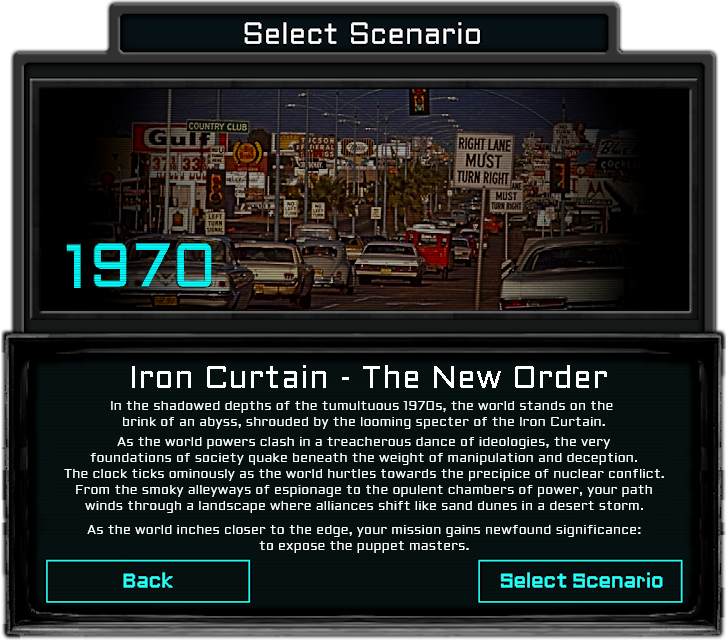
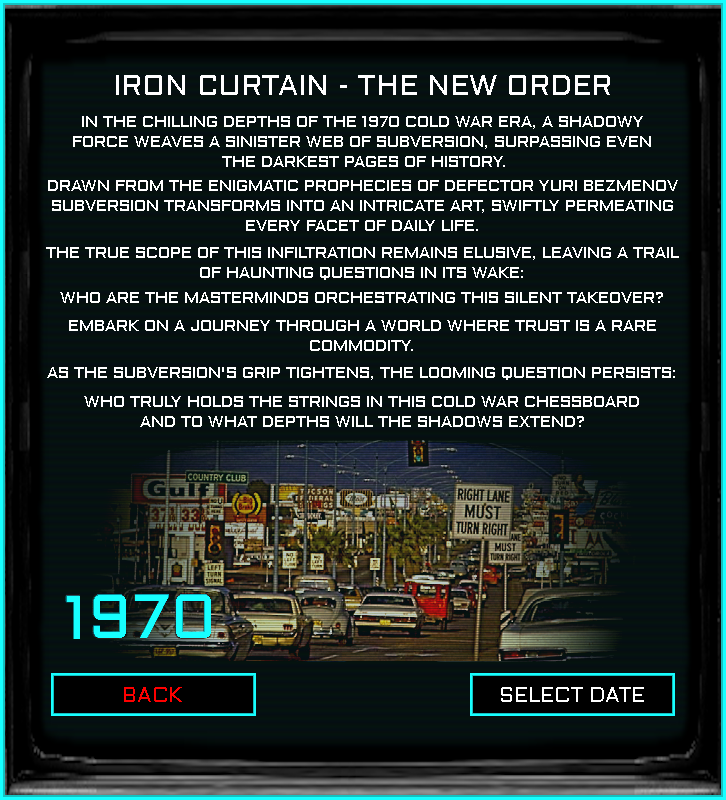
v0.05 	modified:   MenuManager.py 	modified:   __pycache__/MenuManager.cpython-311.pyc 	modified:   gfx/Interface/country_selection/country_selection_background.png 	modified:   gfx/Interface/country_selection/national_spirits_background.png 	modified:   gfx/Interface/main_menu.png 	modified:   gfx/

diff --git a/MenuManager.py b/MenuManager.py
@@ -288,8 +288,8 @@ class Main_Menu:
 		menu_gui_width = self.menu_gui.get_width()
 		menu_gui_height = self.menu_gui.get_height()
 		
-		self.menu_gui_middle_x = (screen_width - menu_gui_width*1.5)
-		self.menu_gui_middle_y = (screen_height - menu_gui_height) / 1.2	
+		self.menu_gui_middle_x = (screen_width/1.35 - menu_gui_width/2)
+		self.menu_gui_middle_y = (screen_height/1.35 - menu_gui_height/2)	
 
 		
 		start_button_width = 371 * self.factor_x
@@ -455,16 +455,16 @@ class Scenario_Selection_Menu:
 		self.menu_gui_middle_x = (screen_width/2 - menu_gui_width/2)
 		self.menu_gui_middle_y = (screen_height - menu_gui_height) / 1.3
 
-		start_button_width = 204 * self.factor_x
+		start_button_width = 205 * self.factor_x
 		start_button_height = 43 * self.factor_y
-		start_button_x_offset = 478 * self.factor_x
-		start_button_y_offset = 560 * self.factor_y
+		start_button_x_offset = 470 * self.factor_x
+		start_button_y_offset = 673 * self.factor_y
 		self.start_button = GenericUtilitys.Button(self.menu_gui_middle_x + start_button_x_offset, self.menu_gui_middle_y + start_button_y_offset, start_button_width, start_button_height)	
 
-		back_button_width = 204 * self.factor_x
+		back_button_width = 205 * self.factor_x
 		back_button_height = 43 * self.factor_y
-		back_button_x_offset = 46 * self.factor_x
-		back_button_y_offset = 560 * self.factor_y
+		back_button_x_offset = 51 * self.factor_x
+		back_button_y_offset = 673 * self.factor_y
 		self.back_button = GenericUtilitys.Button(self.menu_gui_middle_x + back_button_x_offset, self.menu_gui_middle_y + back_button_y_offset, back_button_width, back_button_height)	
 
 		self.hovered = False
@@ -588,29 +588,31 @@ class Country_Selection_Menu:
 		political_compass_image_rect[1] += 31 * self.factor_y
 		self.Country_Selection_National_Spirits_Selection_Menu.background_position = [political_compass_image_rect[0]*0.65, political_compass_image_rect[1]*0.95]
 
-		self.leader_portrait_position = (1057 * self.factor_x, 55 * self.factor_y)
-		self.country_flag_position = (1211 * self.factor_x, 129 * self.factor_y)
+		self.leader_portrait_position = (1053 * self.factor_x, 25 * self.factor_y)
+		self.country_flag_position = (1209 * self.factor_x, 89 * self.factor_y)
 
-		self.country_name_position = (1218 * self.factor_x, 78 * self.factor_y)
-		self.leader_name_position = (1074 * self.factor_x, 257 * self.factor_y)
+		self.country_name_position = (1212 * self.factor_x, 41 * self.factor_y)
+		self.leader_name_position = (1071 * self.factor_x, 222 * self.factor_y)
+
+		self.national_spirits_position = [1437*self.factor_x, 104*self.factor_y]
 
 		#### MAIN BUTTONS
 		start_game_button_width = 268 * self.factor_x
 		start_game_button_height = 70 * self.factor_y
-		self.start_game_button_x_offset = 1643 * self.factor_x
-		self.start_game_button_y_offset = 278 * self.factor_y		
+		self.start_game_button_x_offset = 1639 * self.factor_x
+		self.start_game_button_y_offset = 248 * self.factor_y		
 		self.start_game_button = GenericUtilitys.Button(self.start_game_button_x_offset, self.start_game_button_y_offset, start_game_button_width, start_game_button_height)	
 
 		select_national_spirit_button_width = 211 * self.factor_x
 		select_national_spirit_button_height = 70 * self.factor_y
-		self.select_national_spirit_button_x_offset = 1428 * self.factor_x
-		self.select_national_spirit_button_y_offset = 278 * self.factor_y		
+		self.select_national_spirit_button_x_offset = 1424 * self.factor_x
+		self.select_national_spirit_button_y_offset = 248 * self.factor_y		
 		self.select_national_spirit_button = GenericUtilitys.Button(self.select_national_spirit_button_x_offset, self.select_national_spirit_button_y_offset, select_national_spirit_button_width, select_national_spirit_button_height)	
 
 		select_flag_style_button_width = 362 * self.factor_x
 		select_flag_style_button_height = 70 * self.factor_y
-		self.select_flag_style_button_x_offset = 1063 * self.factor_x
-		self.select_flag_style_button_y_offset = 278 * self.factor_y		
+		self.select_flag_style_button_x_offset = 1059 * self.factor_x
+		self.select_flag_style_button_y_offset = 248 * self.factor_y		
 		self.select_flag_style_button = GenericUtilitys.Button(self.select_flag_style_button_x_offset, self.select_flag_style_button_y_offset, select_flag_style_button_width, select_flag_style_button_height)					
 		####
 
@@ -620,15 +622,15 @@ class Country_Selection_Menu:
 
 
 		### FIRST ROW
-		self.first_row_law_button_y_offset_1 = 408 * self.factor_y	
-		self.first_row_law_button_y_offset_2 = 441 * self.factor_y		
-		self.first_row_law_button_y_offset_3 = 473 * self.factor_y	
-		self.first_row_law_button_y_offset_4 = 506 * self.factor_y	
-		self.first_row_law_button_y_offset_5 = 538 * self.factor_y
-		self.first_row_law_button_y_offset_6 = 570 * self.factor_y
-		self.first_row_law_button_y_offset_7 = 603 * self.factor_y	
-		self.first_row_law_button_y_offset_8 = 636 * self.factor_y
-		self.first_row_law_button_y_offset_9 = 668 * self.factor_y	
+		self.first_row_law_button_y_offset_1 = 430 * self.factor_y
+		self.first_row_law_button_y_offset_2 = 463 * self.factor_y		
+		self.first_row_law_button_y_offset_3 = 495 * self.factor_y	
+		self.first_row_law_button_y_offset_4 = 528 * self.factor_y	
+		self.first_row_law_button_y_offset_5 = 560 * self.factor_y
+		self.first_row_law_button_y_offset_6 = 592 * self.factor_y
+		self.first_row_law_button_y_offset_7 = 623 * self.factor_y	
+		self.first_row_law_button_y_offset_8 = 656 * self.factor_y
+		self.first_row_law_button_y_offset_9 = 690 * self.factor_y	
 		
 		## POLITICAL LAWS
 		self.political_law_button_x_offset = 1269 * self.factor_x
@@ -645,7 +647,7 @@ class Country_Selection_Menu:
 		##
 
 		## MILITARY LAWS
-		self.military_law_button_x_offset = 1707 * self.factor_x
+		self.military_law_button_x_offset = 1700 * self.factor_x
 
 		self.military_law_button_1 = GenericUtilitys.Button(self.military_law_button_x_offset, self.first_row_law_button_y_offset_1, law_button_width, law_button_height)
 		self.military_law_button_2 = GenericUtilitys.Button(self.military_law_button_x_offset, self.first_row_law_button_y_offset_2, law_button_width, law_button_height)
@@ -660,15 +662,15 @@ class Country_Selection_Menu:
 		###
 
 		### SECOND ROW
-		self.second_row_law_button_y_offset_1 = 759 * self.factor_y	
-		self.second_row_law_button_y_offset_2 = 791 * self.factor_y		
-		self.second_row_law_button_y_offset_3 = 824 * self.factor_y	
-		self.second_row_law_button_y_offset_4 = 856 * self.factor_y	
-		self.second_row_law_button_y_offset_5 = 889 * self.factor_y
-		self.second_row_law_button_y_offset_6 = 921 * self.factor_y
-		self.second_row_law_button_y_offset_7 = 954 * self.factor_y	
-		self.second_row_law_button_y_offset_8 = 986 * self.factor_y
-		self.second_row_law_button_y_offset_9 = 1019 * self.factor_y	
+		self.second_row_law_button_y_offset_1 = 781 * self.factor_y
+		self.second_row_law_button_y_offset_2 = 813 * self.factor_y		
+		self.second_row_law_button_y_offset_3 = 846 * self.factor_y	
+		self.second_row_law_button_y_offset_4 = 878 * self.factor_y	
+		self.second_row_law_button_y_offset_5 = 911 * self.factor_y
+		self.second_row_law_button_y_offset_6 = 943 * self.factor_y
+		self.second_row_law_button_y_offset_7 = 976 * self.factor_y	
+		self.second_row_law_button_y_offset_8 = 1008 * self.factor_y
+		self.second_row_law_button_y_offset_9 = 1041 * self.factor_y	
 		
 		## ECONOMIC LAWS
 		self.economic_law_button_x_offset = 1269 * self.factor_x
@@ -685,7 +687,7 @@ class Country_Selection_Menu:
 		##
 
 		## SOCIAL LAWS
-		self.social_law_button_x_offset = 1707 * self.factor_x
+		self.social_law_button_x_offset = 1700 * self.factor_x
 
 		self.social_law_button_1 = GenericUtilitys.Button(self.social_law_button_x_offset, self.second_row_law_button_y_offset_1, law_button_width, law_button_height)
 		self.social_law_button_2 = GenericUtilitys.Button(self.social_law_button_x_offset, self.second_row_law_button_y_offset_2, law_button_width, law_button_height)
@@ -900,14 +902,10 @@ class Country_Selection_Menu:
 				
 				screen.blit(leader_name_text, self.leader_name_position)
 
-
-
 				self.national_spirits_display_rects = []
 				x_index = 0
 				y_index = 0
-
-				national_spirits_position = [1440*self.factor_x, 141*self.factor_y]
-				
+	
 				if len(self.Country_Selection_Flag_Selection_Menu.selected_country.country_national_spirits) > 10:
 					for national_spirit in self.Country_Selection_Flag_Selection_Menu.selected_country.country_national_spirits:
 						scaled_national_spirit_icon = pygame.transform.scale_by(national_spirit.national_spirit_icon, 0.5)
@@ -915,9 +913,9 @@ class Country_Selection_Menu:
 						x_offset = scaled_national_spirit_icon.get_width() * 1.23
 						y_offset = scaled_national_spirit_icon.get_height()
 						
-						screen.blit(scaled_national_spirit_icon, (national_spirits_position[0] + x_offset*x_index, national_spirits_position[1] + y_offset*y_index))
+						screen.blit(scaled_national_spirit_icon, (self.national_spirits_position[0] + x_offset*x_index, self.national_spirits_position[1] + y_offset*y_index))
 						
-						national_spirit.rect = self.pygame.Rect(national_spirits_position[0] + x_offset*x_index, national_spirits_position[1] + y_offset*y_index,
+						national_spirit.rect = self.pygame.Rect(self.national_spirits_position[0] + x_offset*x_index, self.national_spirits_position[1] + y_offset*y_index,
 															scaled_national_spirit_icon.get_width(), scaled_national_spirit_icon.get_height())
 						self.national_spirits_display_rects.append([national_spirit.rect, national_spirit])	
 
@@ -931,9 +929,9 @@ class Country_Selection_Menu:
 						x_offset = national_spirit.national_spirit_icon.get_width() * 1.27
 						y_offset = national_spirit.national_spirit_icon.get_height()					
 						
-						screen.blit(national_spirit.national_spirit_icon, (national_spirits_position[0] + x_offset*x_index, national_spirits_position[1] + y_offset*y_index))
+						screen.blit(national_spirit.national_spirit_icon, (self.national_spirits_position[0] + x_offset*x_index, self.national_spirits_position[1] + y_offset*y_index))
 						
-						national_spirit.rect = self.pygame.Rect(national_spirits_position[0] + x_offset*x_index, national_spirits_position[1] + y_offset*y_index,
+						national_spirit.rect = self.pygame.Rect(self.national_spirits_position[0] + x_offset*x_index, self.national_spirits_position[1] + y_offset*y_index,
 															national_spirit.national_spirit_icon.get_width(), national_spirit.national_spirit_icon.get_height())
 						self.national_spirits_display_rects.append([national_spirit.rect, national_spirit])	
 
@@ -946,18 +944,18 @@ class Country_Selection_Menu:
 
 				# CULTURE
 				culture_national_spirit = self.Country_Selection_Flag_Selection_Menu.selected_country.country_culture
-				screen.blit(culture_national_spirit.national_spirit_icon, (1843 * self.factor_x, 143 * self.factor_y))
+				screen.blit(culture_national_spirit.national_spirit_icon, (1840 * self.factor_x, 104 * self.factor_y))
 				
-				culture_national_spirit.rect = self.pygame.Rect(1843 * self.factor_x, 143 * self.factor_y,
+				culture_national_spirit.rect = self.pygame.Rect(1840 * self.factor_x, 104 * self.factor_y,
 						culture_national_spirit.national_spirit_icon.get_width(), culture_national_spirit.national_spirit_icon.get_height())					
 				
 				self.national_spirits_display_rects.append([culture_national_spirit.rect, culture_national_spirit])						
 				
 				# RELIGION	
 				religion_national_spirit = self.Country_Selection_Flag_Selection_Menu.selected_country.country_religion
-				screen.blit(religion_national_spirit.national_spirit_icon, (1843 * self.factor_x, 143 * self.factor_y + religion_national_spirit.national_spirit_icon.get_height()))
+				screen.blit(religion_national_spirit.national_spirit_icon, (1840 * self.factor_x, 105 * self.factor_y + religion_national_spirit.national_spirit_icon.get_height()))
 				
-				religion_national_spirit.rect = self.pygame.Rect(1843 * self.factor_x, 143 * self.factor_y + religion_national_spirit.national_spirit_icon.get_height(),
+				religion_national_spirit.rect = self.pygame.Rect(1840 * self.factor_x, 105 * self.factor_y + religion_national_spirit.national_spirit_icon.get_height(),
 						religion_national_spirit.national_spirit_icon.get_width(), religion_national_spirit.national_spirit_icon.get_height())					
 				
 				self.national_spirits_display_rects.append([religion_national_spirit.rect, religion_national_spirit])						
